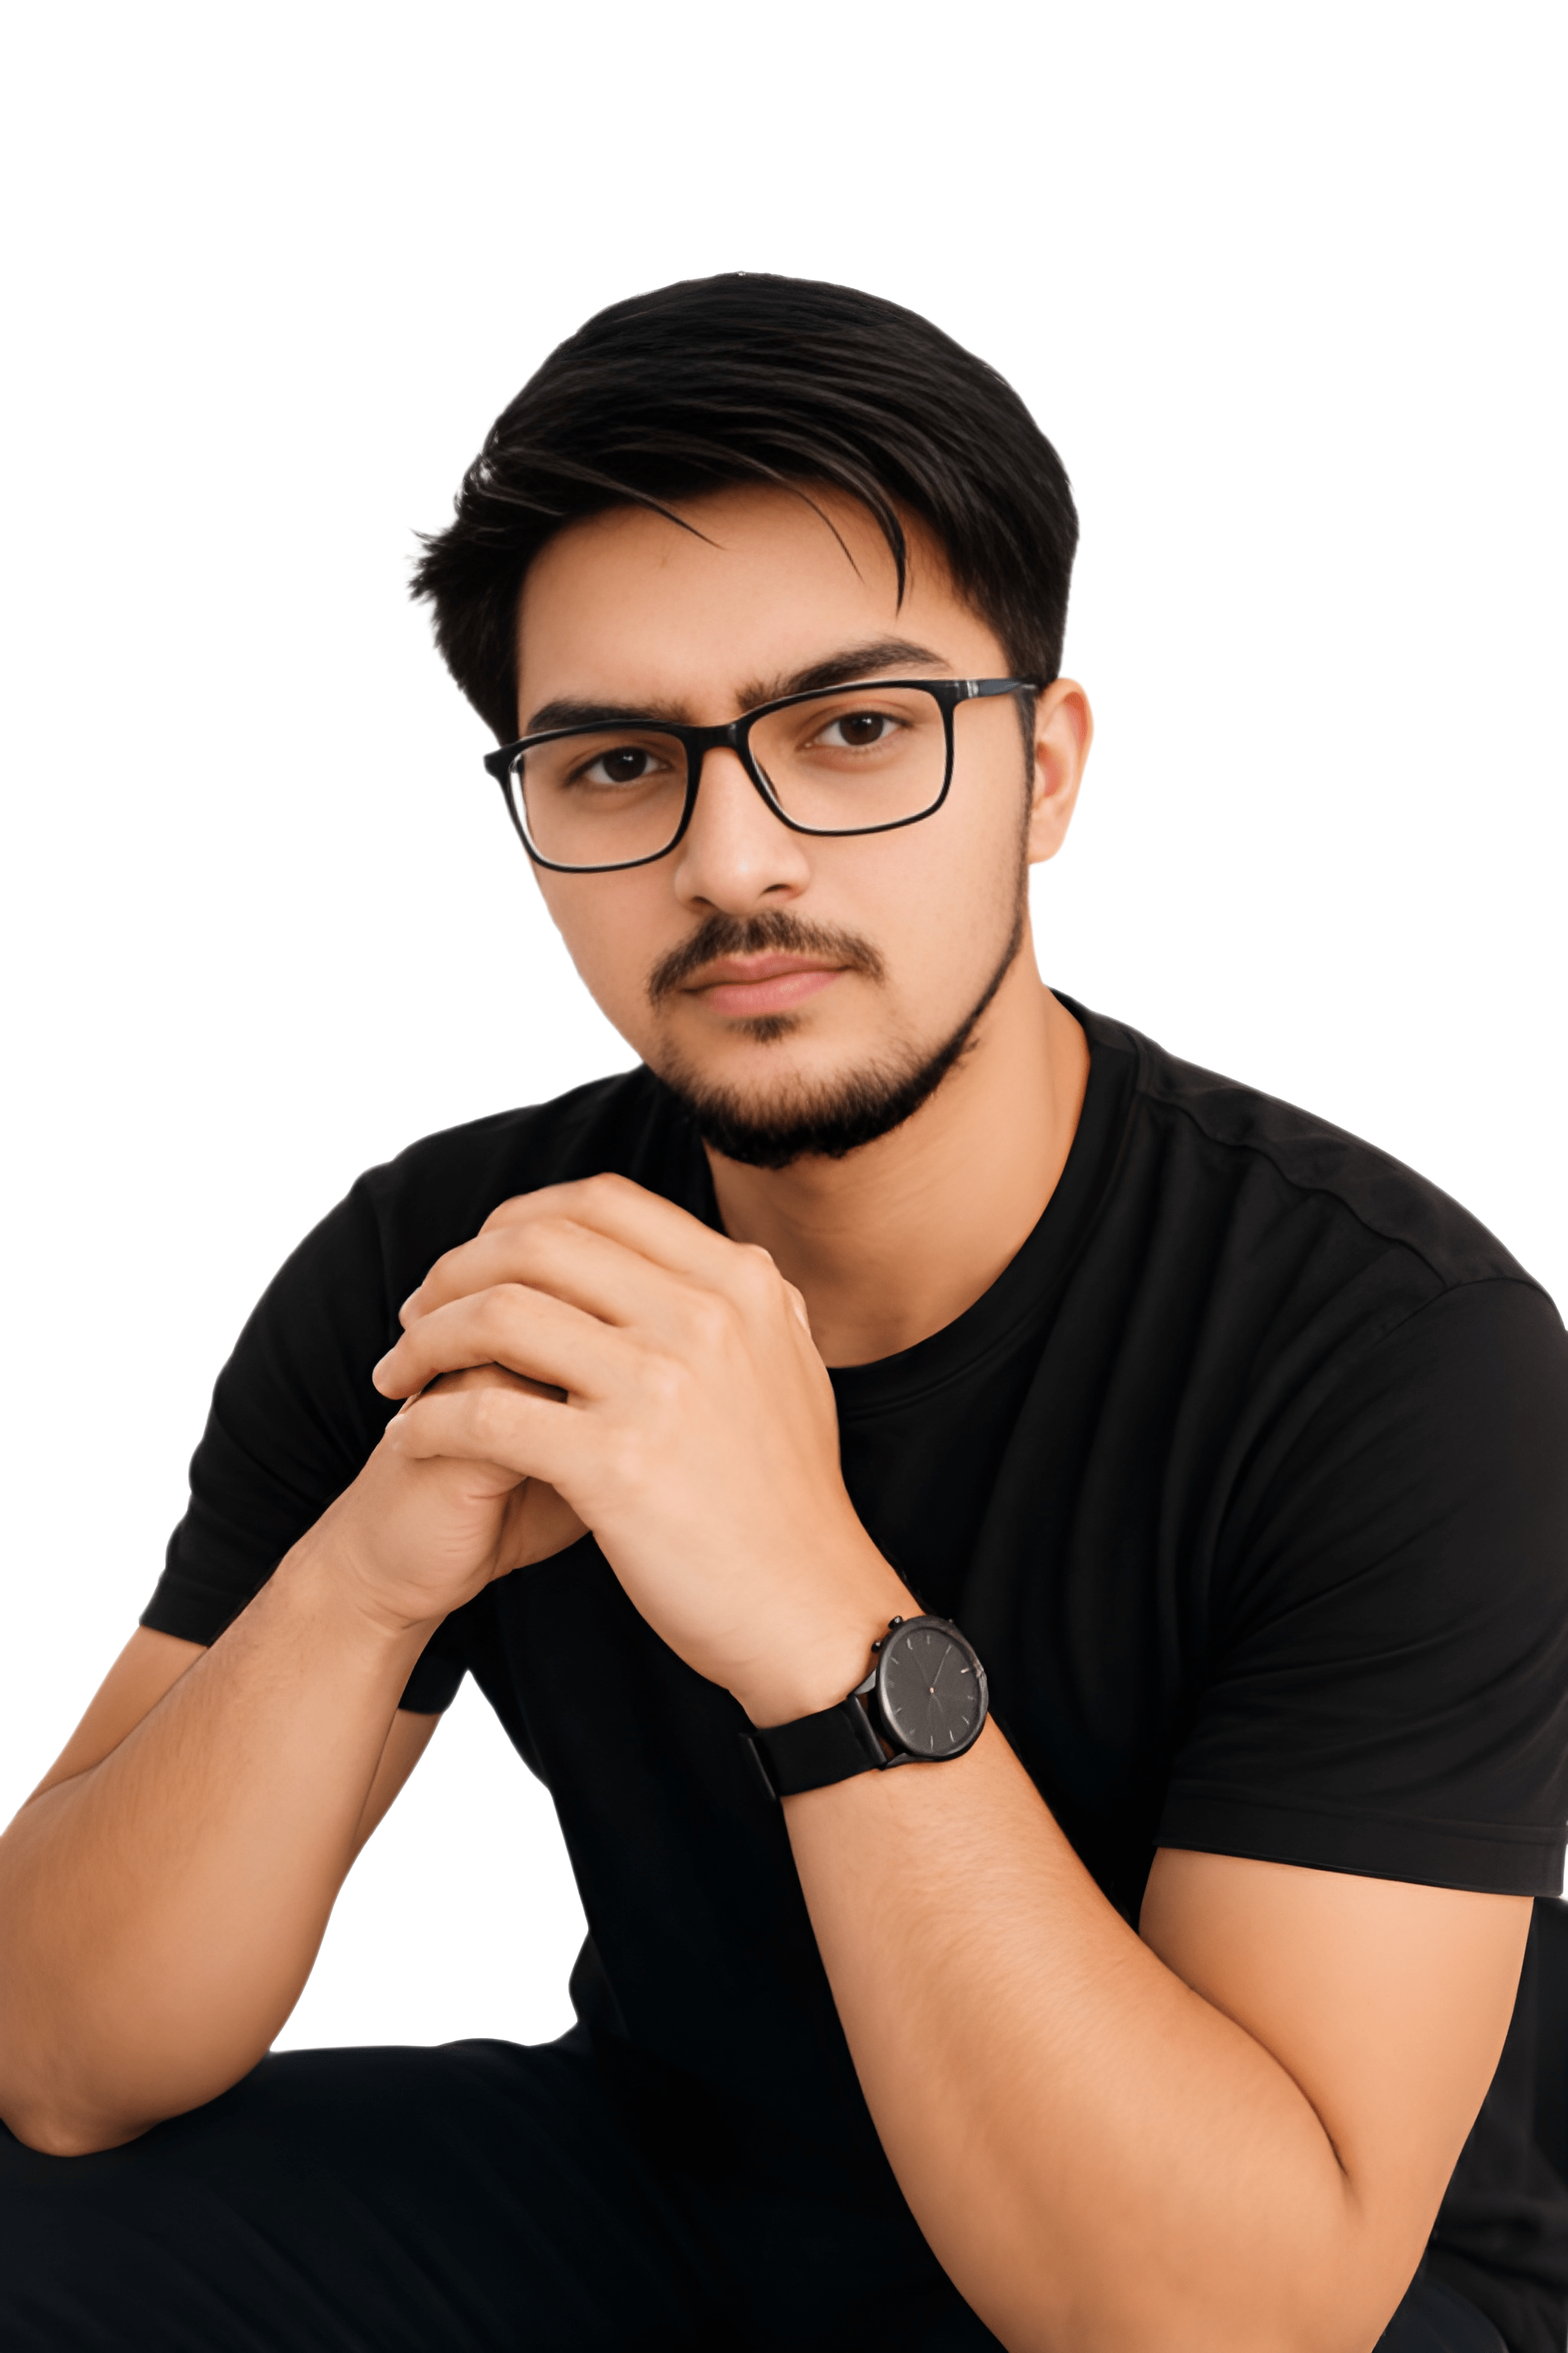
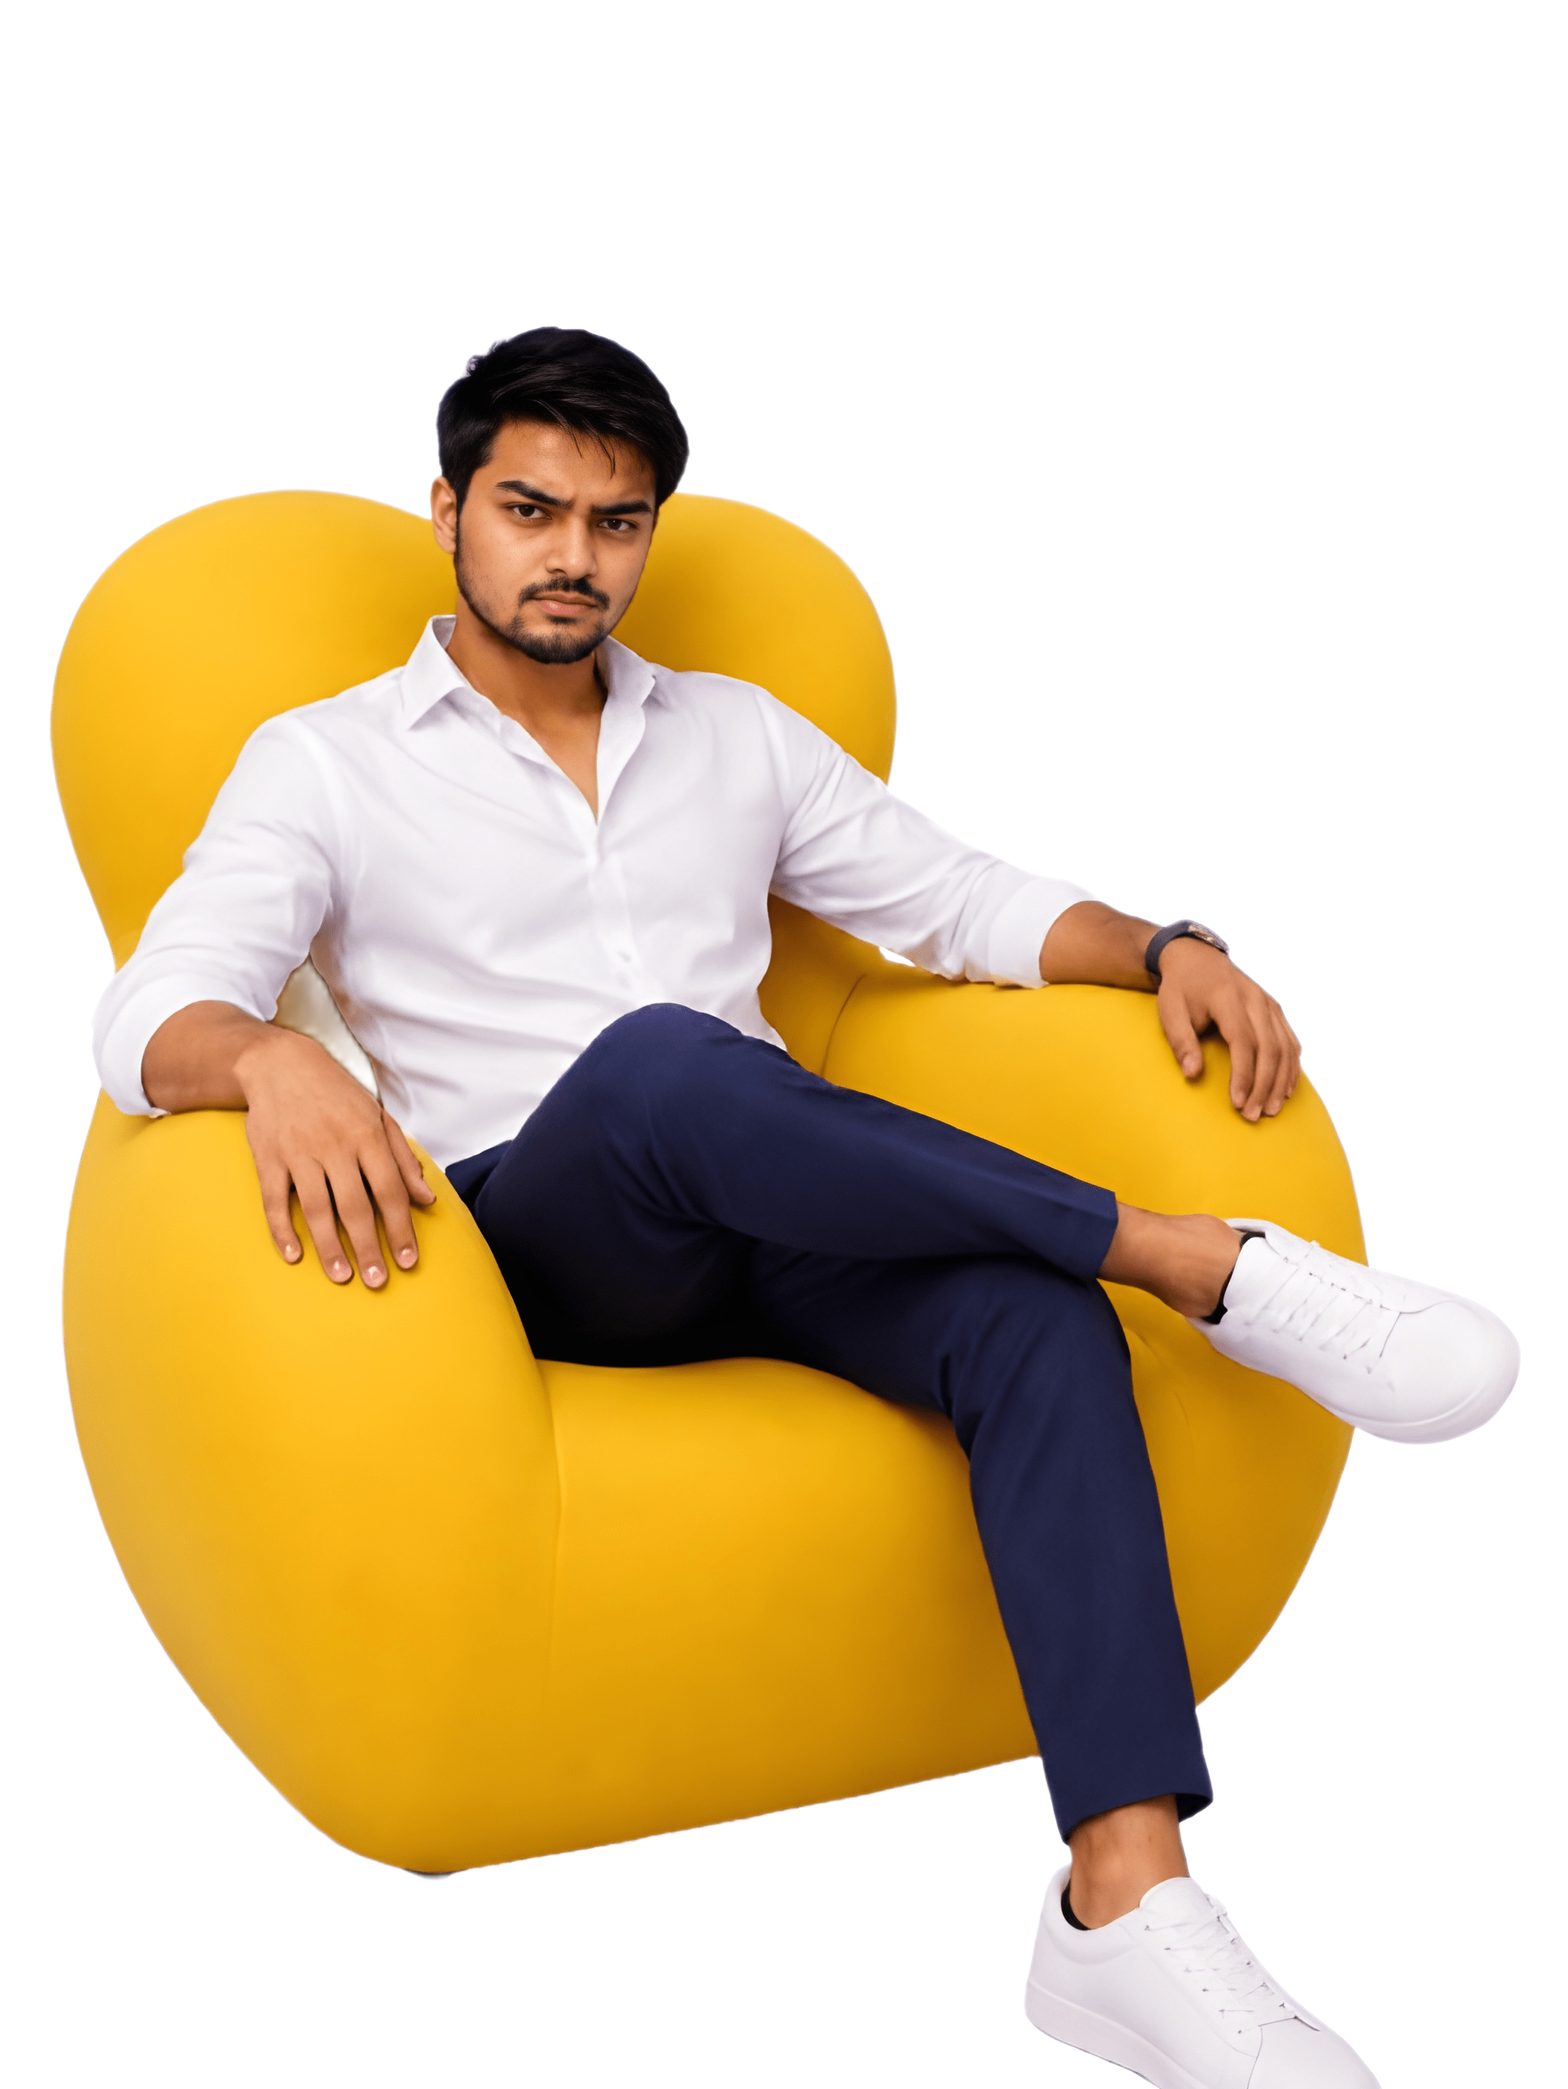
feat: implement scroll-linked horizontal experience section with modal details

diff --git a/src/styles/ExperienceSection.css b/src/styles/ExperienceSection.css
@@ -122,22 +122,14 @@
 .exp-left-col {
   width: 40%;
   max-width: 560px;
-  z-index: 10;
+  z-index: 20;
   /* Sits on top so cards slide behind it */
-  background: var(--bg-dark, #e8d94b);
-  /* Solid background to mask sliding cards */
-  background-image: radial-gradient(rgba(0, 0, 0, 0.1) 2px, transparent 2px);
-  background-size: 50px 50px;
-  border-right: 6px solid #000;
-  /* Comic book split boundary */
-  box-shadow: 10px 0px 0px rgba(0, 0, 0, 0.05);
-  /* Left-to-right shadow cast */
   display: flex;
   flex-direction: column;
   align-items: center;
-  justify-content: center;
+  justify-content: flex-start;
+  padding-top: 1.5rem;
   position: relative;
-  padding-right: 1.5rem;
   height: 100%;
   box-sizing: border-box;
 }
@@ -146,8 +138,7 @@
 .exp-right-col {
   width: 60%;
   max-width: 840px;
-  overflow: hidden;
-  /* Clips cards to keep one card visible */
+  overflow: visible;
   position: relative;
   z-index: 5;
   display: flex;
@@ -155,7 +146,9 @@
   height: 100%;
   box-sizing: border-box;
   padding-left: 3rem;
-  /* Gives active card breathing room from the divider line */
+  /* Smooth fade-out mask on the left edge as cards slide behind the image */
+  -webkit-mask-image: linear-gradient(to right, transparent 0%, #000 150px);
+  mask-image: linear-gradient(to right, transparent 0%, #000 150px);
 }
 
 .exp-track {
@@ -429,55 +422,15 @@
   transform: scale(1.03);
 }
 
-/* ── Polaroid Styling ── */
-.exp-intro-polaroid {
-  background: #fff;
-  border: 3px solid #000;
-  padding: 1rem 1rem 1.8rem 1rem;
-  box-shadow: 6px 6px 0px #000;
-  transform: rotate(-3deg);
-  width: 280px;
-  box-sizing: border-box;
-  margin-bottom: 2rem;
-  position: relative;
-  transition: transform 0.25s cubic-bezier(0.175, 0.885, 0.32, 1.275);
-}
-
-.exp-intro-polaroid::before {
-  content: '';
-  position: absolute;
-  top: -15px;
-  left: 50%;
-  transform: translateX(-50%) rotate(-5deg);
-  width: 100px;
-  height: 28px;
-  background: rgba(255, 235, 59, 0.85);
-  /* Taped look */
-  border: 2px solid #000;
-  box-shadow: 2px 2px 0px rgba(0, 0, 0, 0.15);
-  z-index: 5;
-}
-
-.exp-intro-polaroid:hover {
-  transform: rotate(0deg) scale(1.04);
-}
-
-.exp-intro-img-frame {
-  width: 100%;
-  height: 180px;
-  background: var(--accent);
-  border: 3px solid #000;
-  overflow: hidden;
-  display: flex;
-  justify-content: center;
-  align-items: center;
-}
-
+/* ── Experience Section Direct Image Styling ── */
 .exp-intro-img {
-  width: 100%;
-  height: 100%;
-  object-fit: contain;
-  filter: drop-shadow(6px 6px 0px rgba(0, 0, 0, 0.4));
+  width: 420px;
+  height: auto;
+  max-width: 95%;
+  border-radius: 20px;
+  object-fit: cover;
+  transition: transform 0.3s ease;
+  margin-top: -6.5rem;
 }
 
 .exp-intro-caption {
@@ -709,7 +662,7 @@
 
 @media (max-width: 1024px) {
   .exp-section {
-    padding: 4rem 0;
+    padding: 0.5rem 0 3rem 0;
     height: auto !important;
     /* Stack vertically on mobile/tablet */
   }
@@ -723,19 +676,23 @@
     top: 0;
     height: auto;
     width: 100%;
-    padding: 2rem 5% 0 5%;
+    padding: 0 5%;
   }
 
   .exp-header-sticky {
     align-items: center;
     text-align: center;
-    margin-bottom: 2.5rem;
+    margin-bottom: 0.5rem;
+  }
+
+  .exp-eyebrow {
+    margin-bottom: 0.5rem;
   }
 
   .exp-split-container {
     flex-direction: column;
     width: 100%;
-    gap: 3rem;
+    gap: 0.8rem;
   }
 
   .exp-left-col {
@@ -745,6 +702,13 @@
     border-right: none;
     box-shadow: none;
     background: transparent;
+    justify-content: center;
+    padding-top: 0;
+  }
+
+  .exp-intro-img {
+    margin-top: -0.5rem;
+    width: 300px;
   }
 
   .exp-intro-polaroid {
@@ -765,6 +729,8 @@
     padding-right: 0;
     scrollbar-width: none;
     /* Hide scrollbars */
+    -webkit-mask-image: none;
+    mask-image: none;
   }
 
   .exp-right-col::-webkit-scrollbar {

diff --git a/src/components/ExperienceSection.jsx b/src/components/ExperienceSection.jsx
@@ -72,15 +72,7 @@ function ExperienceSection() {
 
           {/* Left Column: Polaroid Image (Sticky & Solid Layer) */}
           <div className="exp-left-col">
-            <div className="exp-intro-polaroid">
-              <div className="exp-intro-img-frame">
-                <img src={me3} alt="Sushant Gautam" className="exp-intro-img" />
-              </div>
-              <div className="exp-intro-caption script-font">
-                Sushant Gautam
-              </div>
-            </div>
-
+            <img src={me3} alt="Sushant Gautam" className="exp-intro-img" />
           </div>
 
           {/* Right Column: Sliding Cards Viewport */}

diff --git a/src/App.jsx b/src/App.jsx
@@ -24,8 +24,8 @@ const ShopifyStorePage = lazy(() => import('./pages/ShopifyStore'))
 function App() {
   const path = window.location.pathname
 
-  // Route: /shopify-store → render the ShopifyStore page
-  if (path === '/shopify-store' || path === '/shopify-store/') {
+  // Route: /shopifystore → render the ShopifyStore page
+  if (path === '/shopifystore' || path === '/shopifystore/') {
     return (
       <Suspense fallback={<div className="section-loader" />}>
         <ShopifyStorePage />
